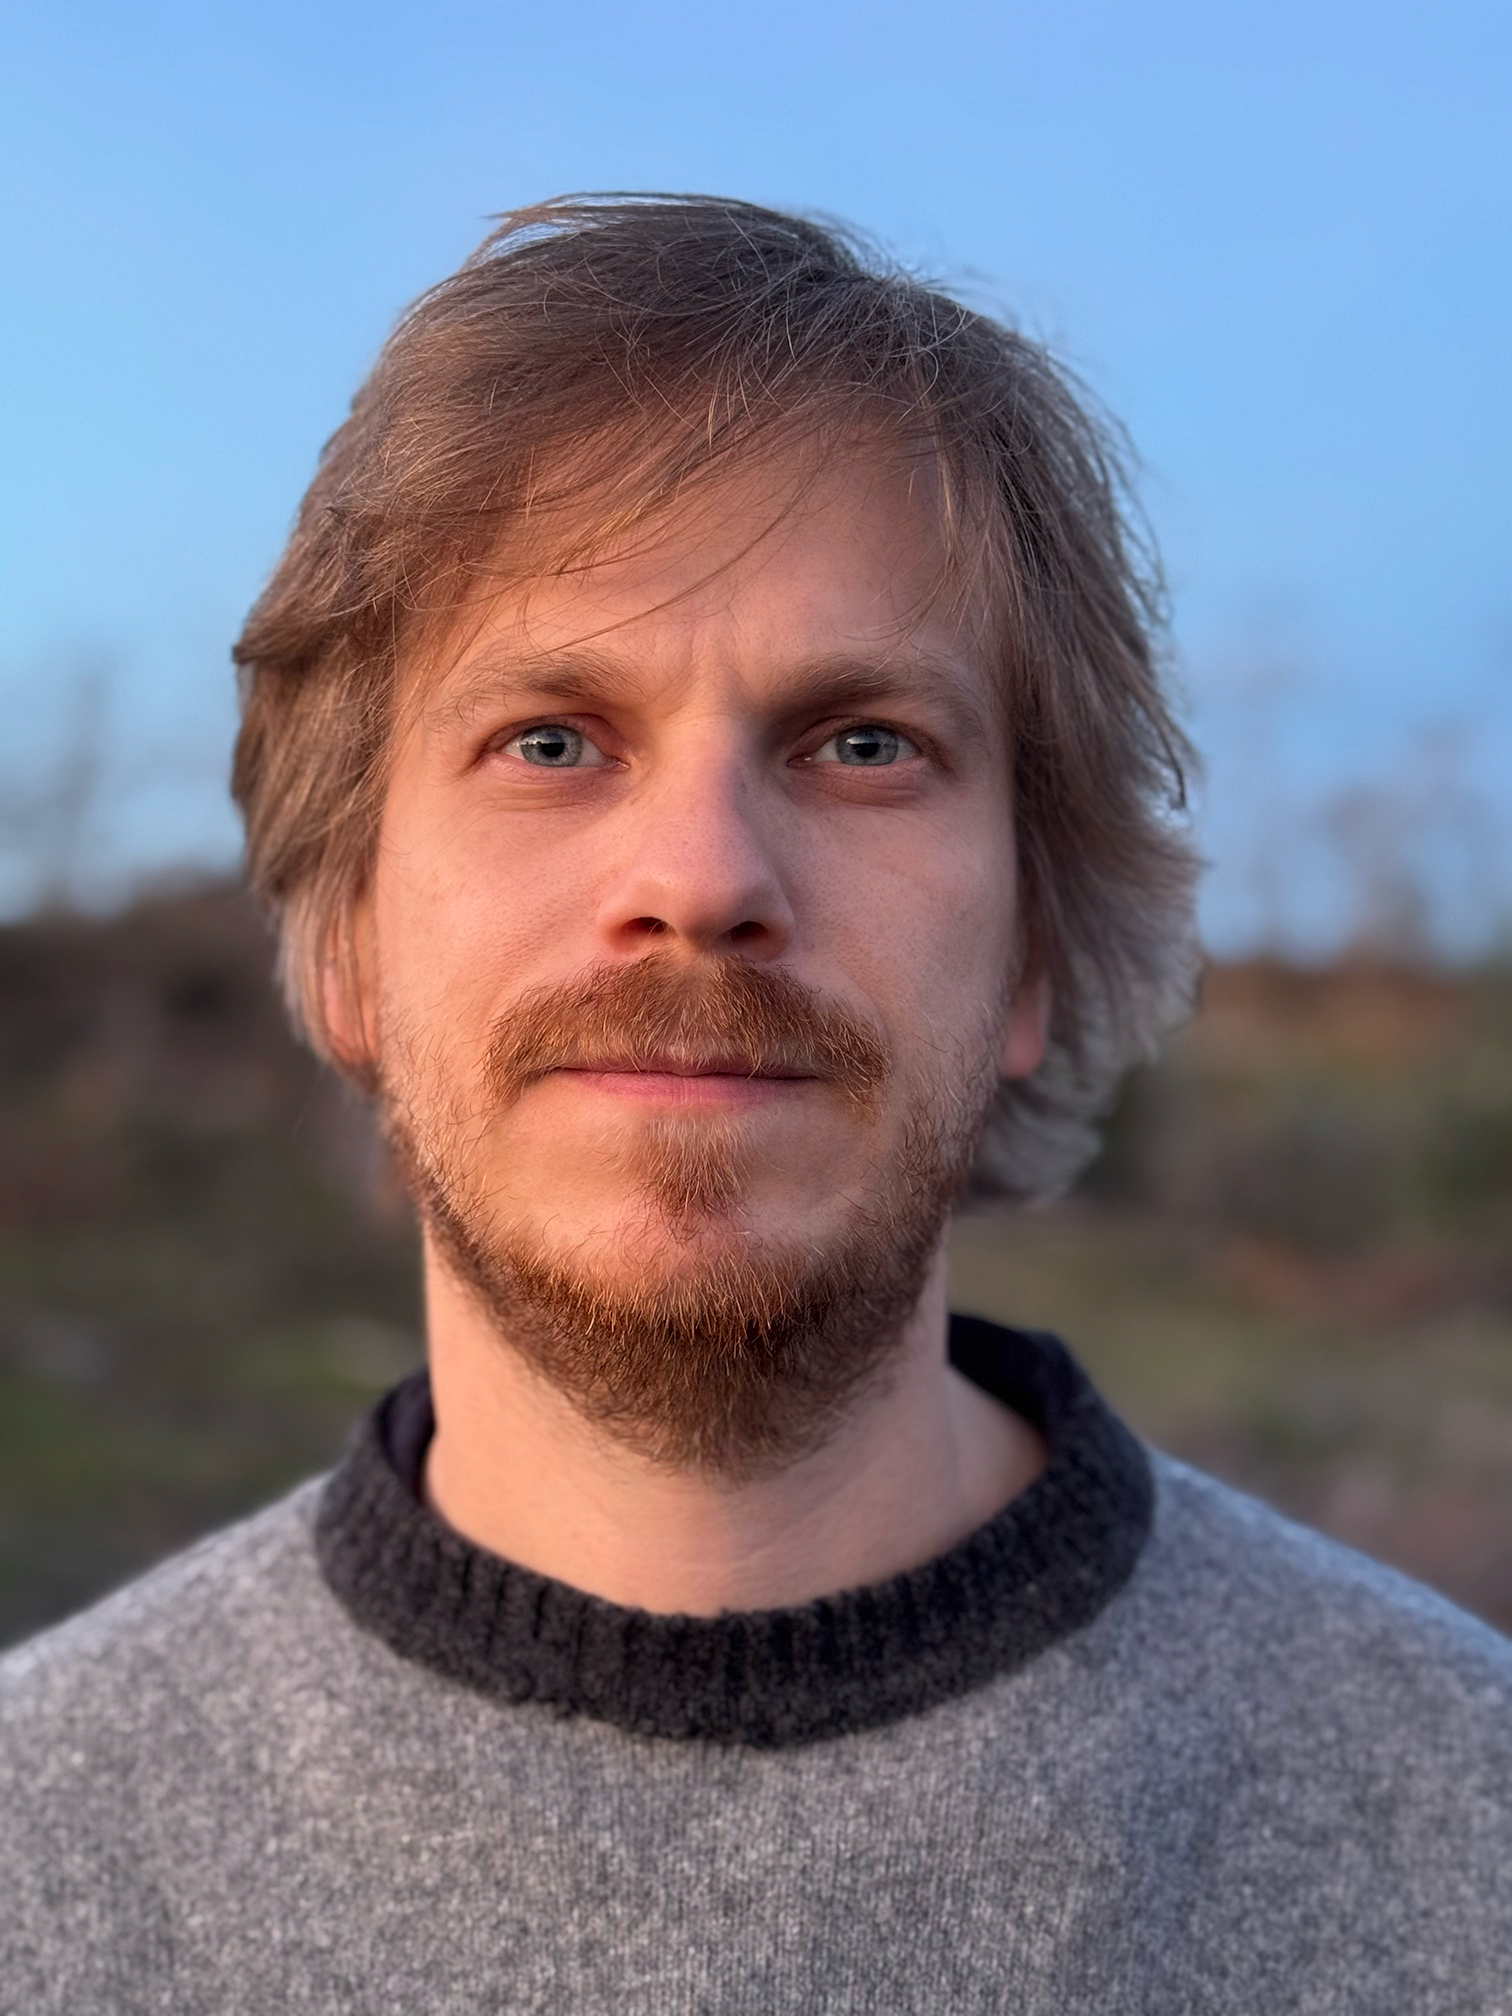
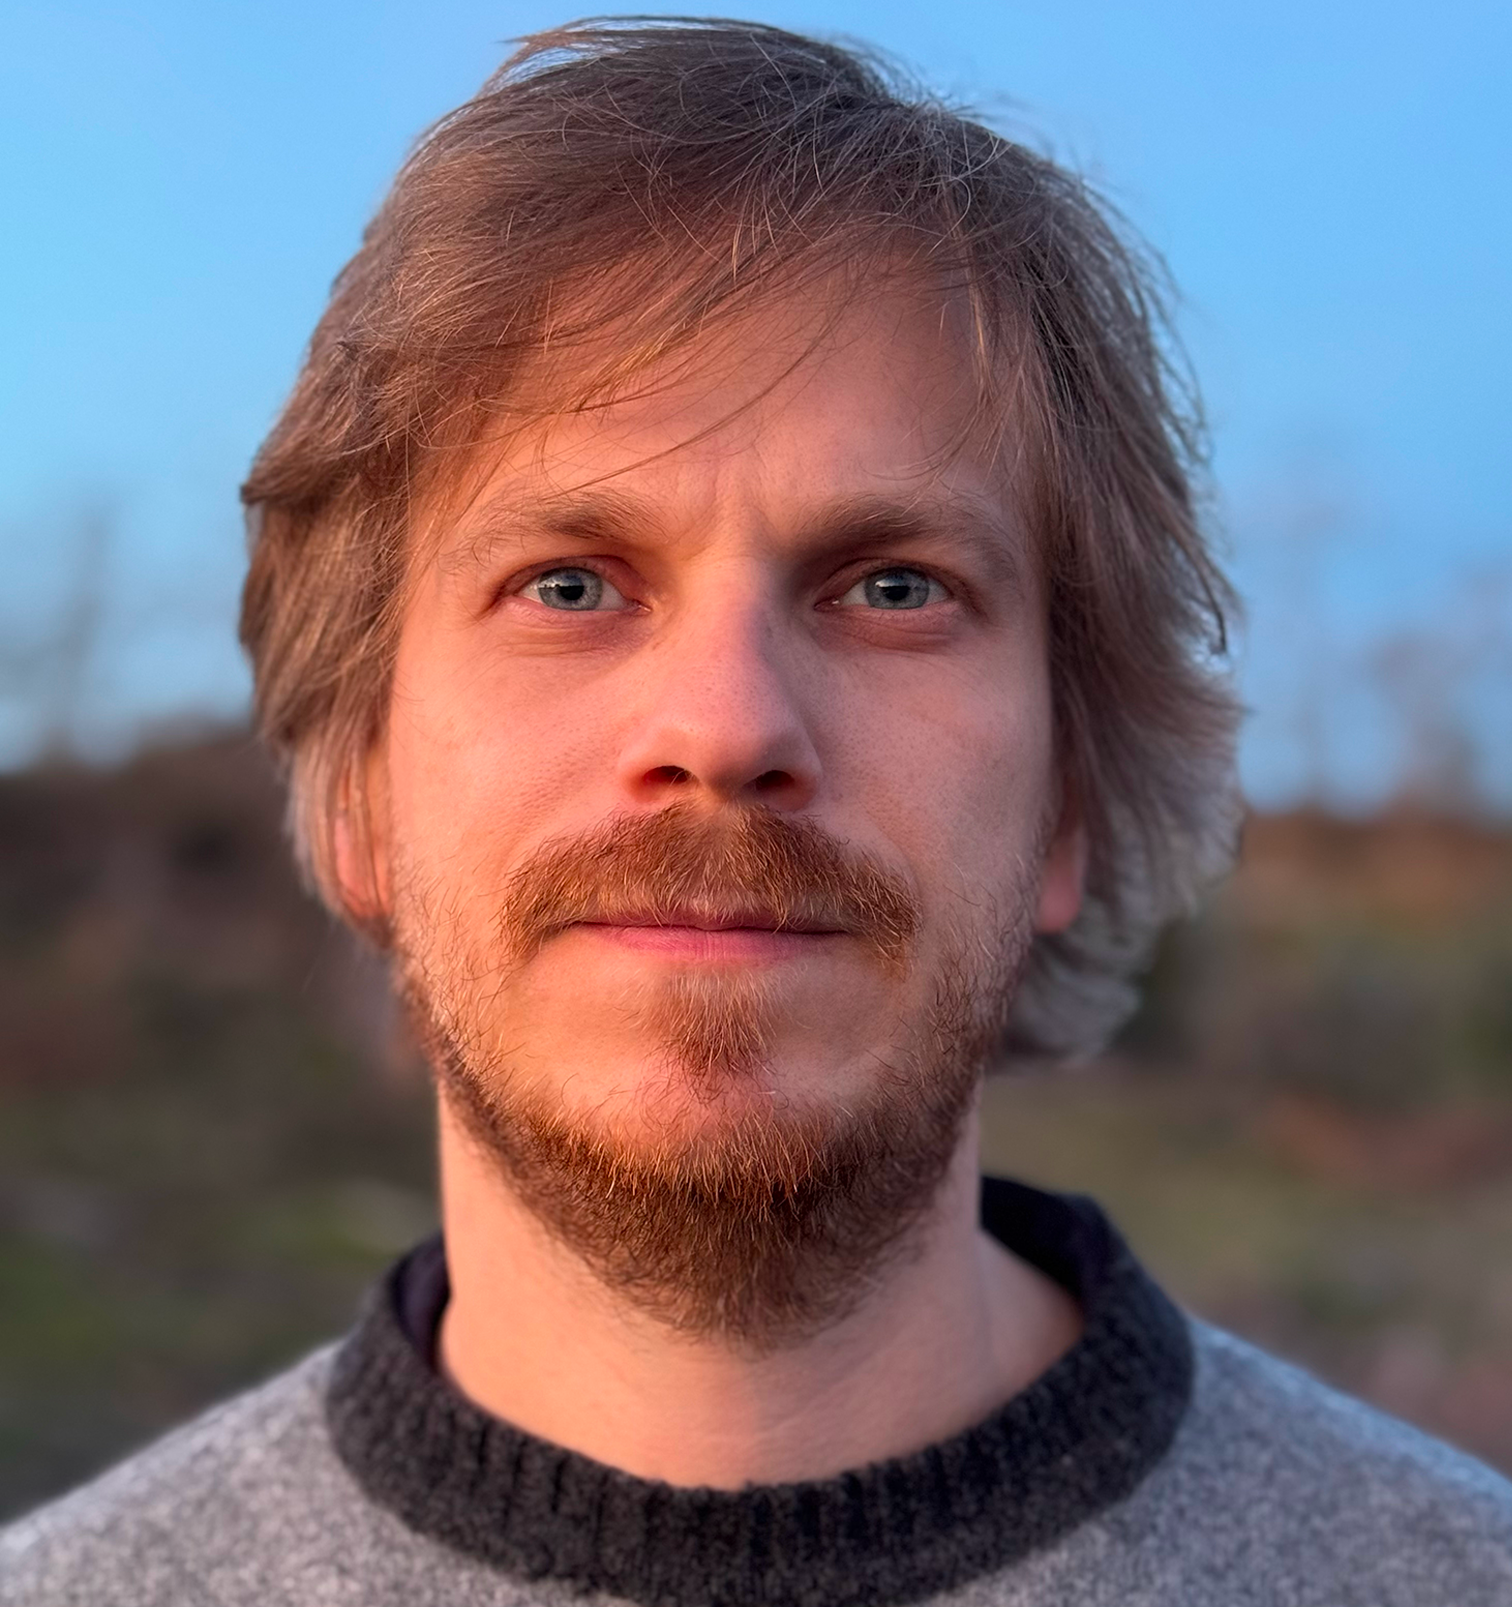
about page and colors of filters

diff --git a/src/styles/global.css b/src/styles/global.css
@@ -98,7 +98,7 @@ img {
   max-width: 100%;
   height: auto;
   border-radius: 2px;
-  border-radius: var(--space-xs);
+  /* border-radius: var(--space-xs); */
 }
 
 @media (max-width: 720px) {